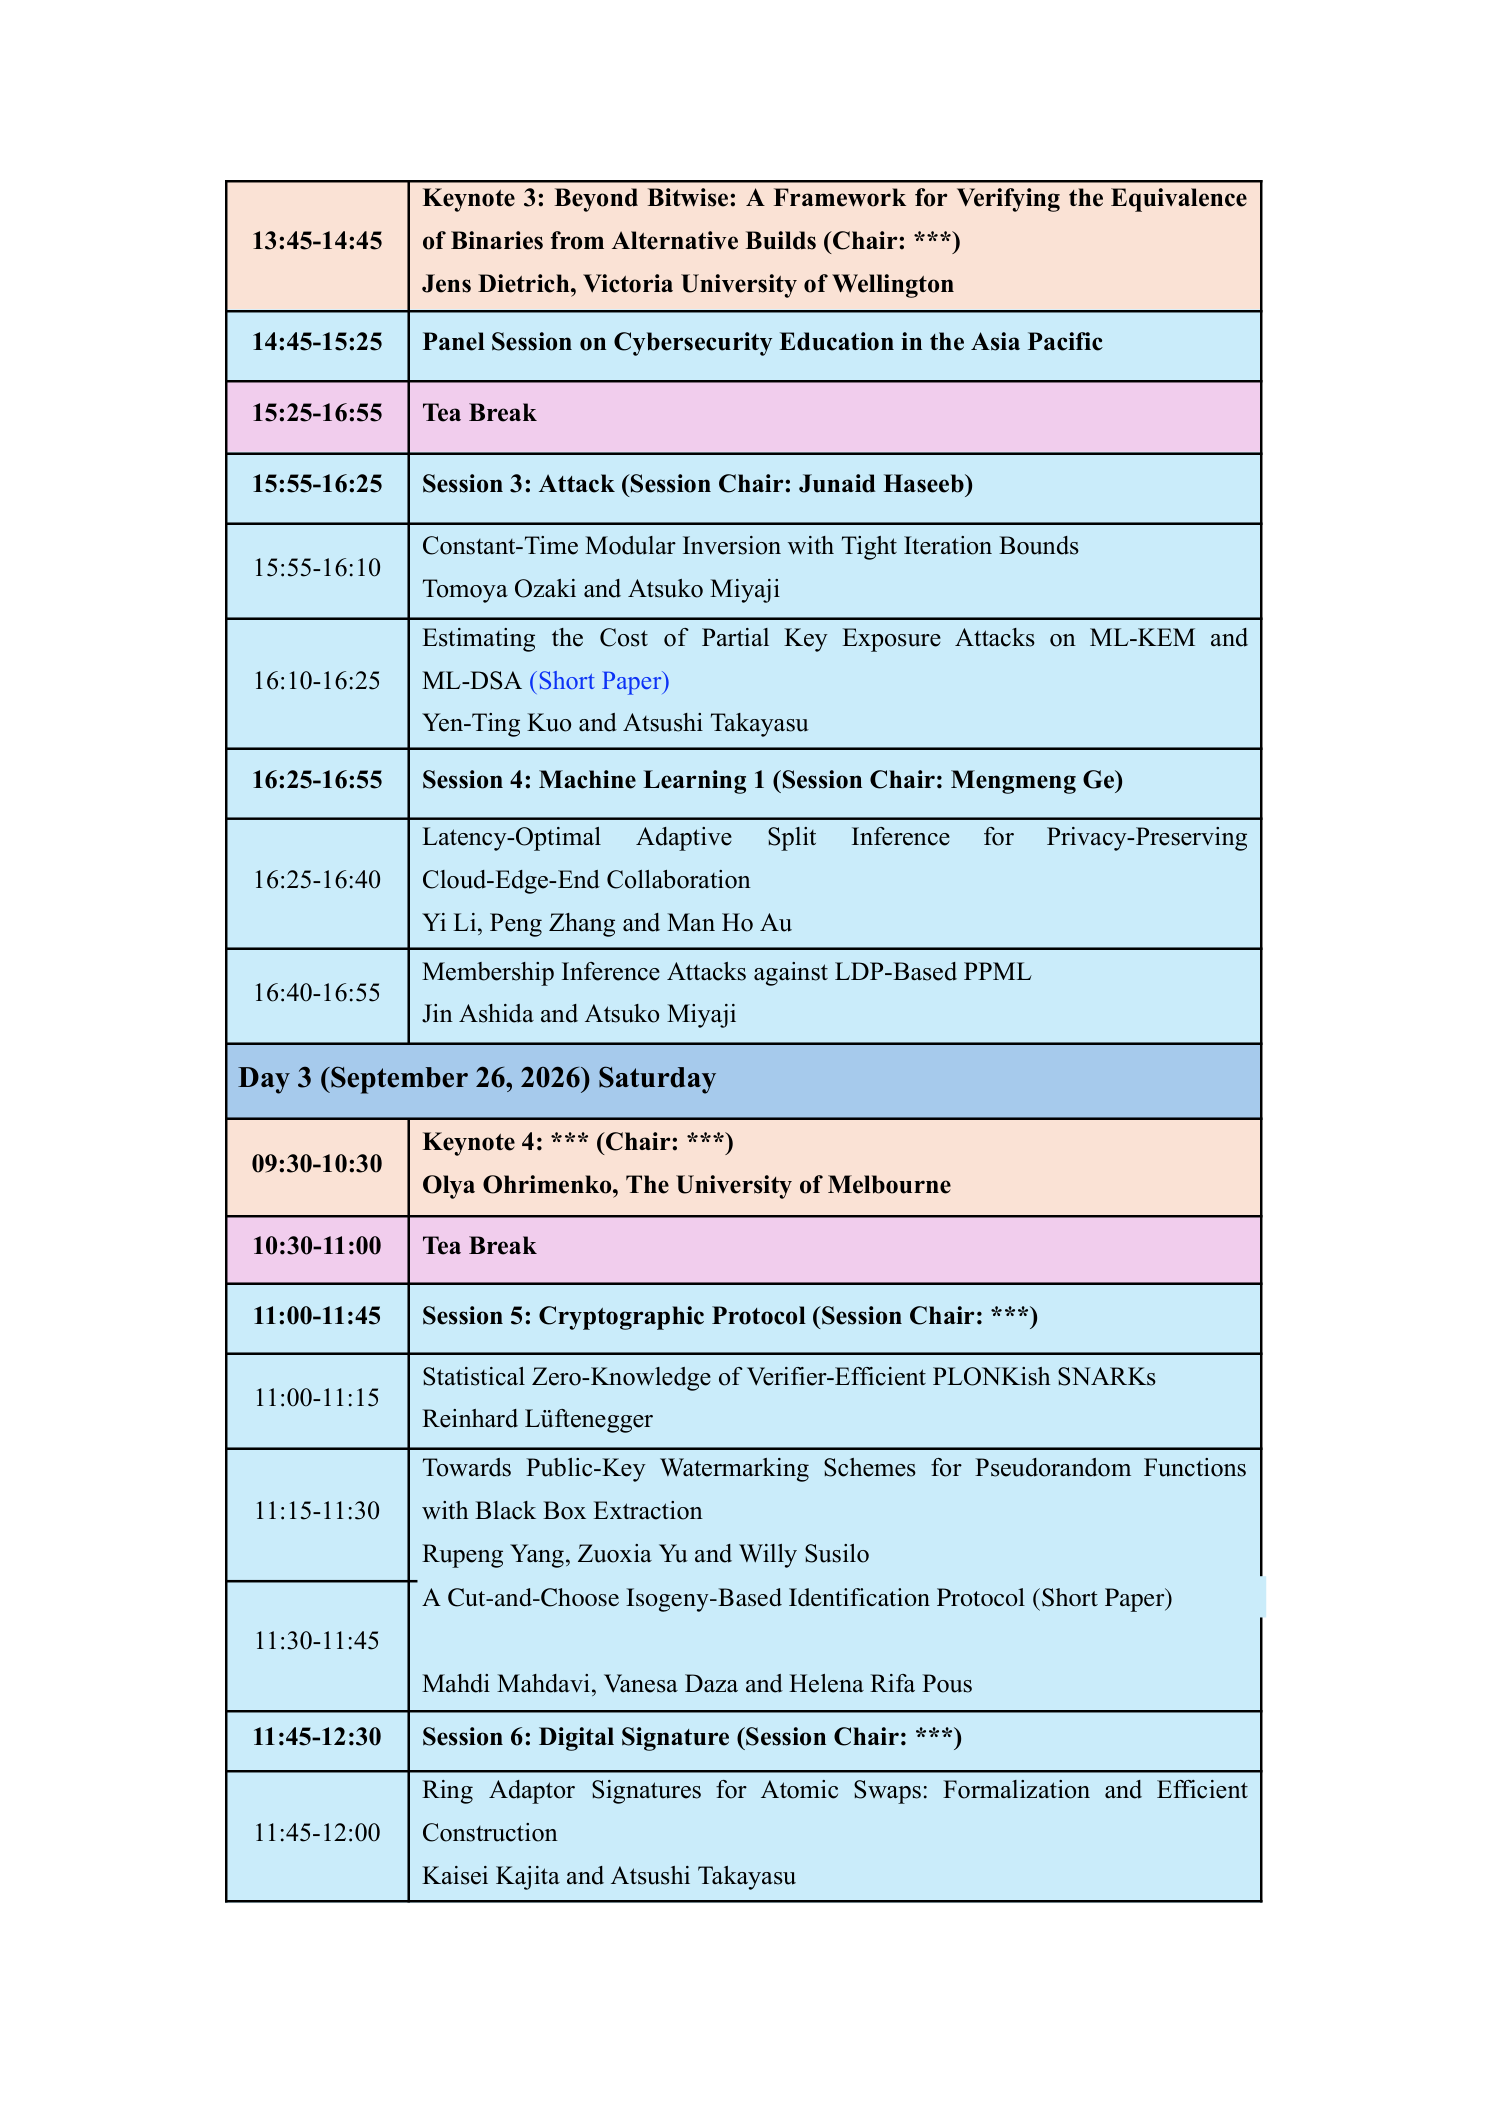
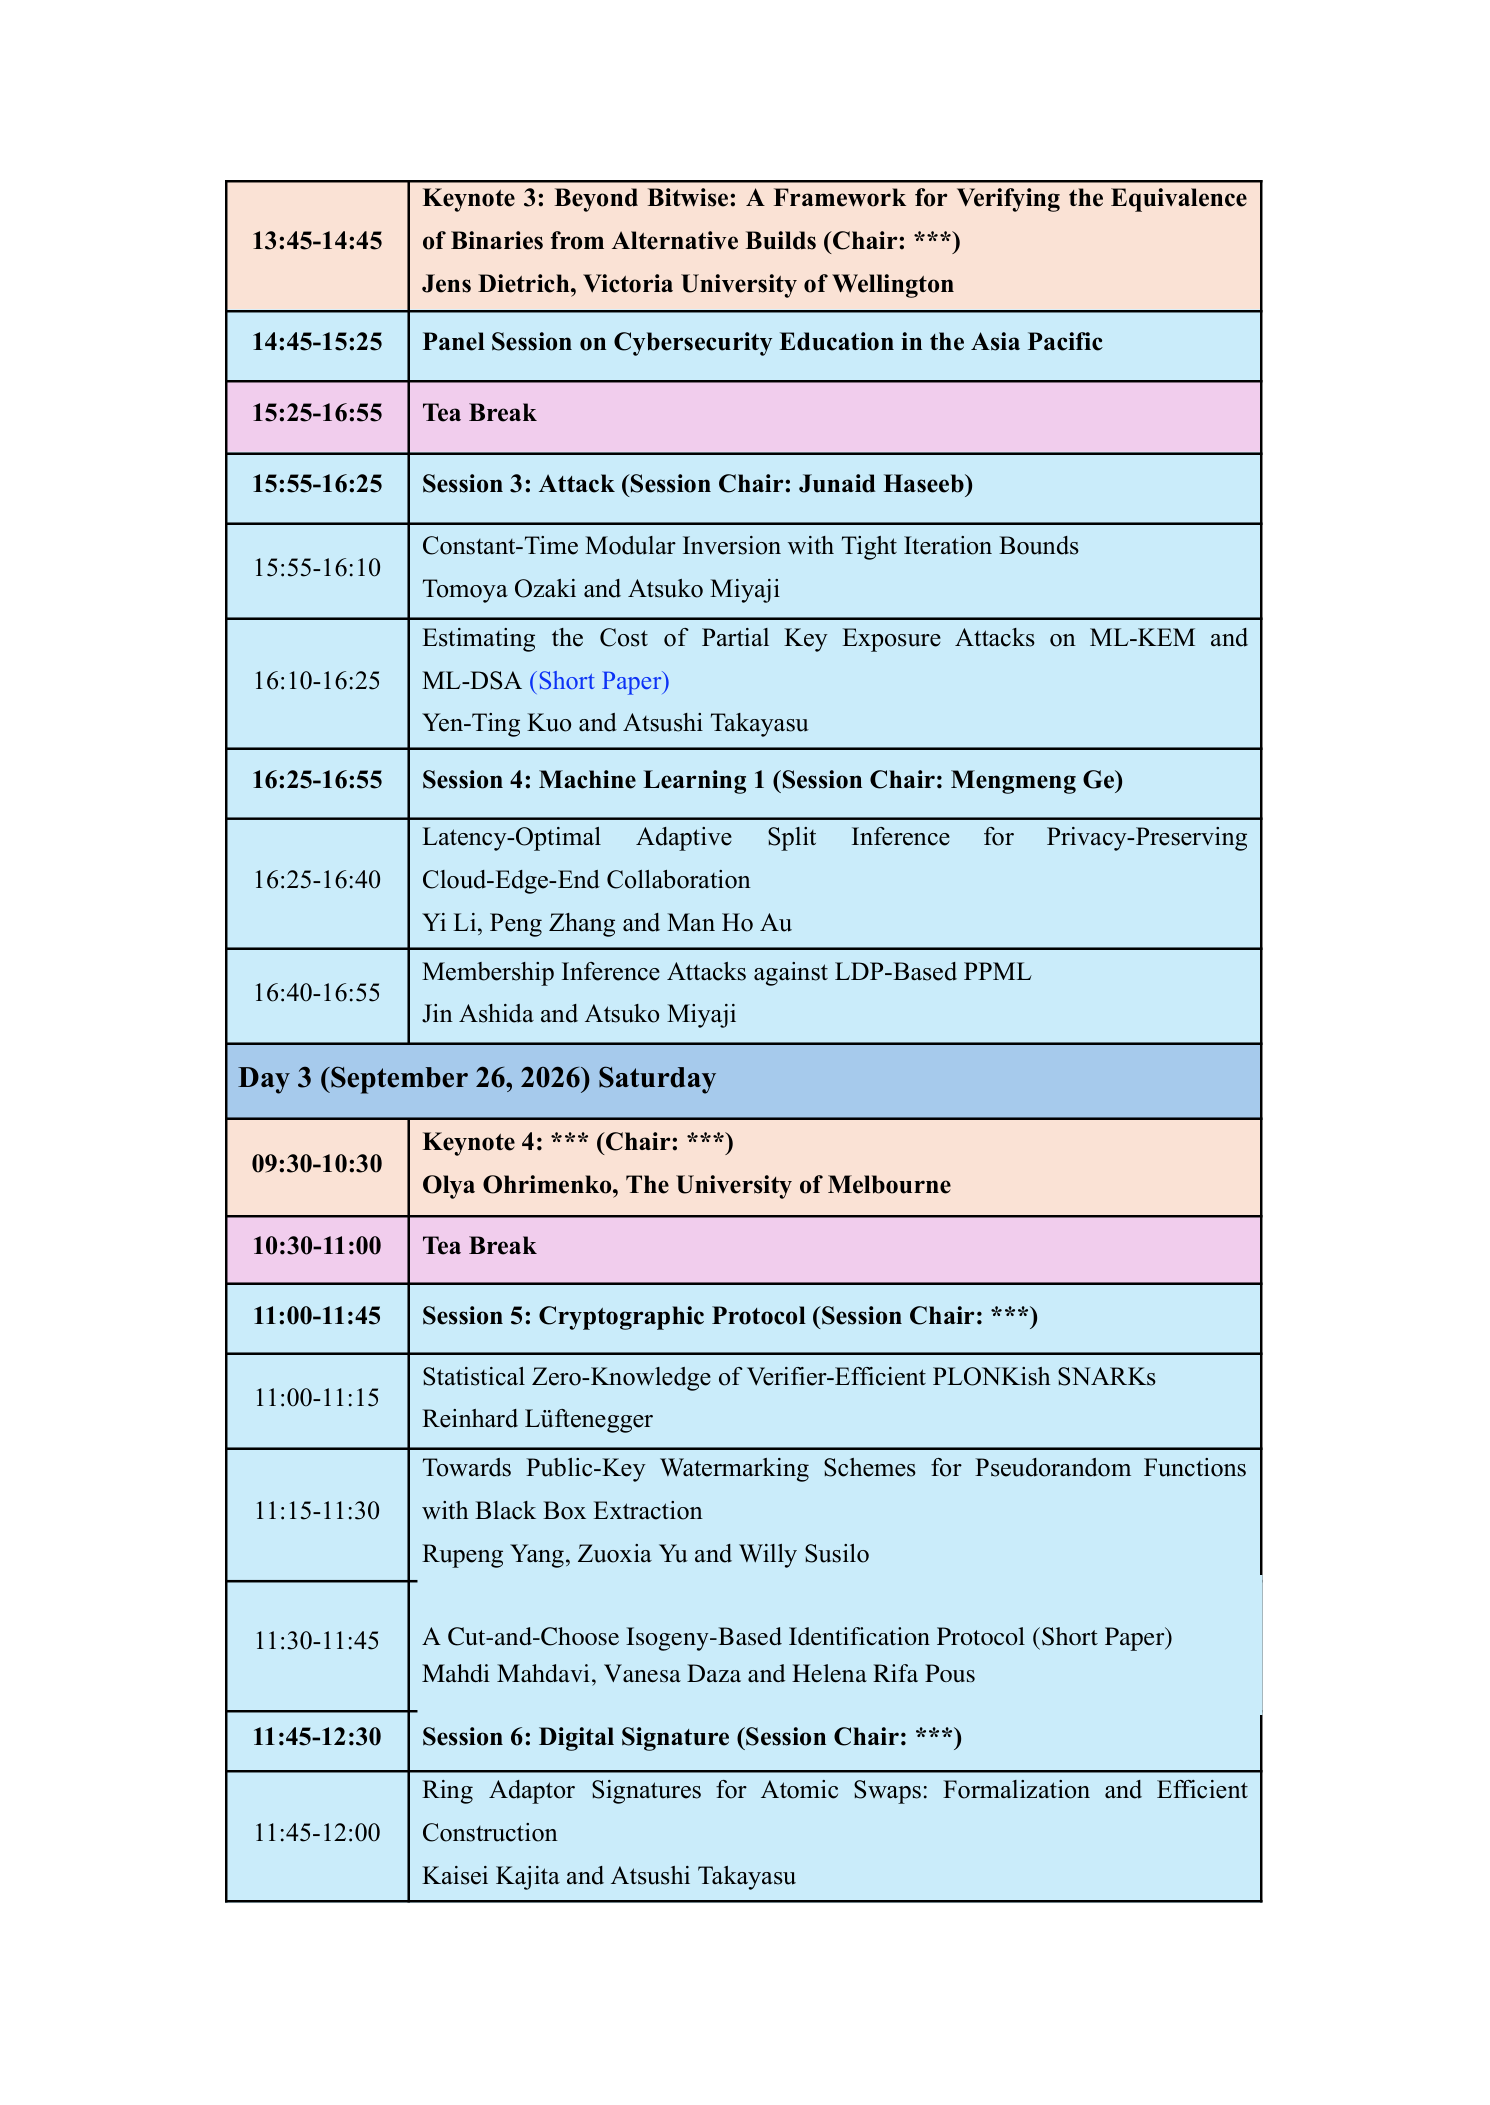
Fix vertical alignment of updated program paper title

Changed region(s): [[0.2779, 0.7411, 0.6792, 0.8029], [0.7409, 0.7411, 0.7718, 0.8029]]

diff --git a/program.html b/program.html
@@ -64,21 +64,21 @@
               <figure class="program-page-figure">
                 <img
                   class="img-fluid program-page-img"
-                  src="./assets/img/program/ProvSec2026-Program-p1.png?v=3"
+                  src="./assets/img/program/ProvSec2026-Program-p1.png?v=4"
                   alt="ProvSec 2026 conference program, page 1"
                 />
               </figure>
               <figure class="program-page-figure">
                 <img
                   class="img-fluid program-page-img"
-                  src="./assets/img/program/ProvSec2026-Program-p2.png?v=3"
+                  src="./assets/img/program/ProvSec2026-Program-p2.png?v=4"
                   alt="ProvSec 2026 conference program, page 2"
                 />
               </figure>
               <figure class="program-page-figure mb-0">
                 <img
                   class="img-fluid program-page-img"
-                  src="./assets/img/program/ProvSec2026-Program-p3.png?v=3"
+                  src="./assets/img/program/ProvSec2026-Program-p3.png?v=4"
                   alt="ProvSec 2026 conference program, page 3"
                 />
               </figure>
